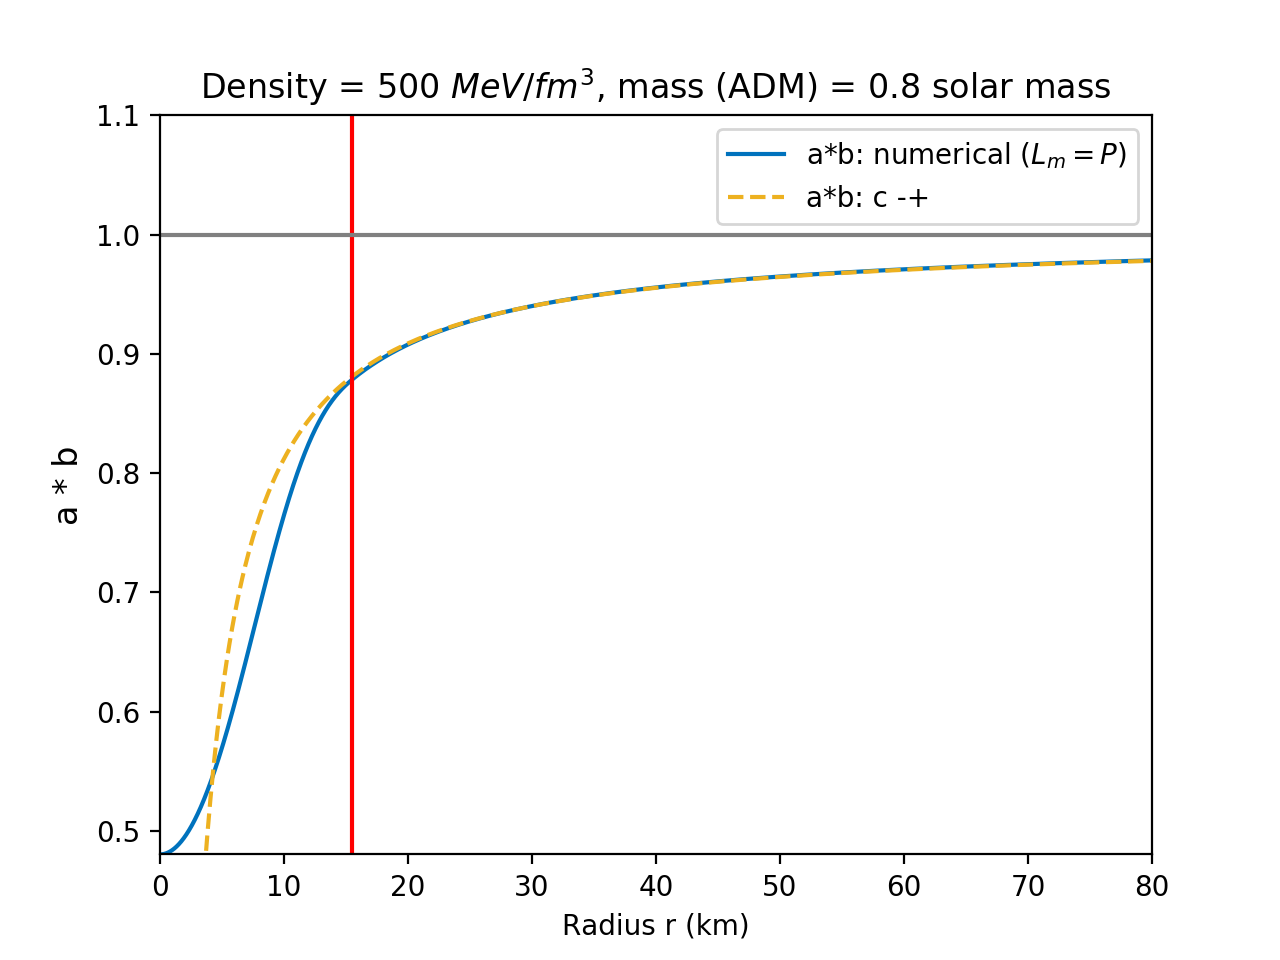
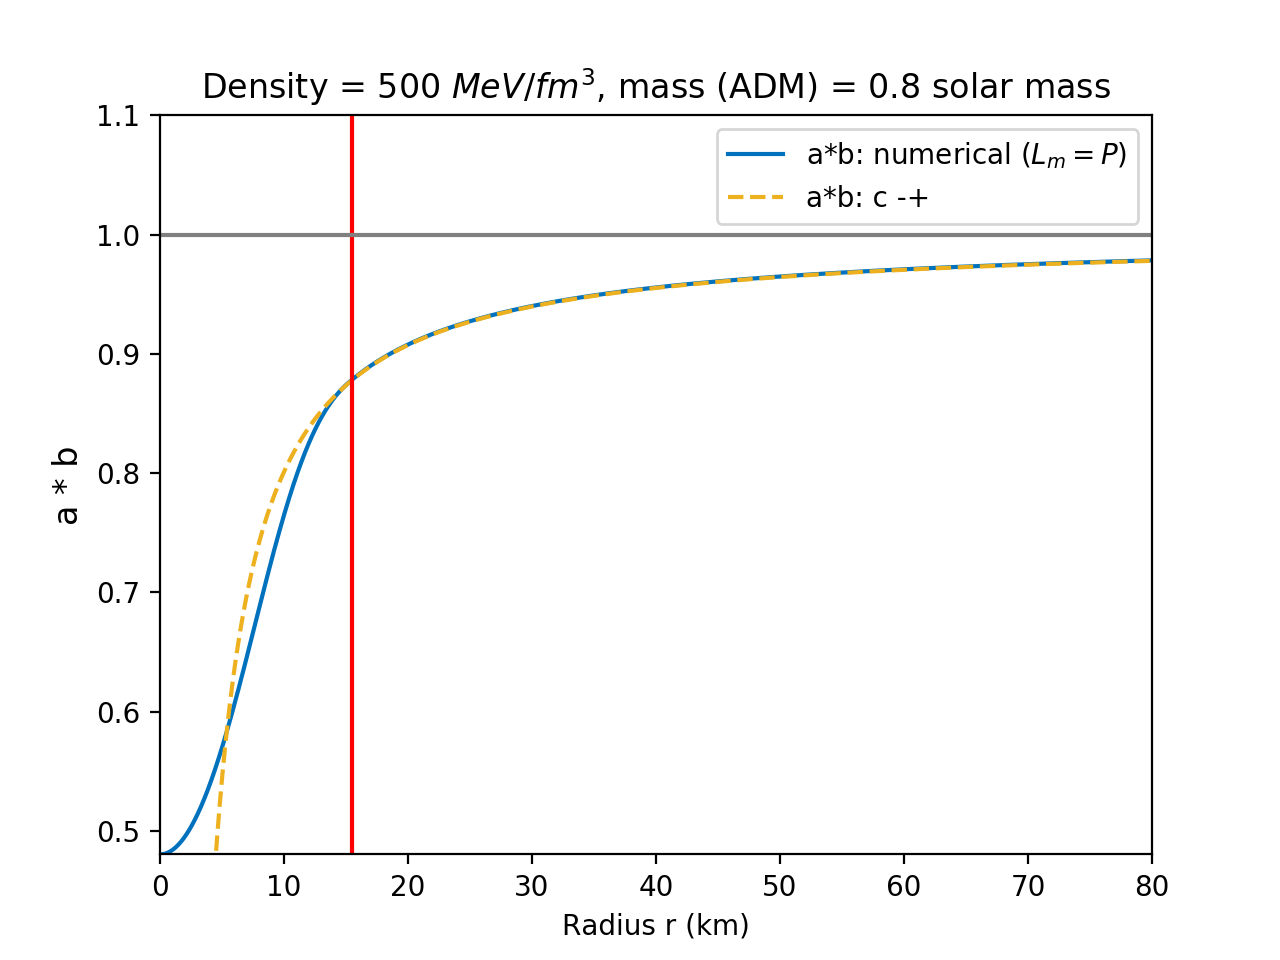
Correction of a, b, phi and rho equation and the computation of gamma and r_- and addition of a figure

diff --git a/Get_all_figures.py b/Get_all_figures.py
@@ -54,13 +54,25 @@ def run(opti,rho_cen):
     print('f_b at infinity ', f_b[-1])
     print('f_phi at infinity ', f_phi[-1])
     if option == 1:
-        gamma = 1/(5+4*f_a[-1]/f_phi[-1])**(1/2)
-        r_m = f_a[-1]*1000*(1+gamma**2)/(-1+5*gamma**2)
+        b_ = 1/(2*np.sqrt(3))
+        C = f_b[-1]/f_phi[-1]
+        a1 = 1
+        a2 = 4*b_*(C+1)
+        a3 = -1
+        a4 = a2*a2-4*a1*a3
+        gamma = (-a2-np.sqrt(a4))/(2*a1)
+        r_m = 1000*f_phi[-1]*(1+gamma**2)/(4*b_*gamma)
         comment = '$L_m = -\\rho$'
         descr = 'rho'
     elif option == 2:
-        gamma = 1/(-3-4*f_a[-1]/f_phi[-1])**(1/2)
-        r_m = -f_a[-1]*1000*(1+gamma**2)/(1+3*gamma**2)
+        b_ = -1/(2*np.sqrt(3))
+        C = f_b[-1]/f_phi[-1]
+        a1 = 1
+        a2 = 4*b_*(C+1)
+        a3 = -1
+        a4 = a2*a2-4*a1*a3
+        gamma = (-a2-np.sqrt(a4))/(2*a1)
+        r_m = 1000*f_phi[-1]*(1+gamma**2)/(4*b_*gamma)
         comment = '$L_m = P$'
         descr = 'P'
     else:
@@ -68,34 +80,23 @@ def run(opti,rho_cen):
     print('gamma', gamma)
     print('r_m',r_m )
     r_2 = np.linspace(r_m,r[-1],num=100000)
-    rho_m = ((r_2**2)*(1-(r_m/r_2))**((-2*gamma**2)/(1+gamma**2)))**(1/2)
-    a_m = (1-r_m/r_2)**((1-5*gamma**2)/(1+gamma**2))
-    phi_m= (1-r_m/r_2)**((4*gamma**2)/(1+gamma**2))
-    drho_dr_m = (1+r_m/r_2)**((-1*gamma**2)/(1+gamma**2))-(r_m/r_2)*((-1*gamma**2)/(1+gamma**2))*(1+r_m/r_2)**((-1*gamma**2)/(1+gamma**2)-1)
-    b_m = (1-r_m/r_2)**((-1-3*gamma**2)/(1+gamma**2))*(drho_dr_m)**(-2)
-    rho_p = ((r_2**2)*(1-(r_m/r_2))**((6*gamma**2)/(1+gamma**2)))**(1/2)
-    a_p = (1-r_m/r_2)**((1+3*gamma**2)/(1+gamma**2))
-    phi_p= (1-r_m/r_2)**((-4*gamma**2)/(1+gamma**2))
-    drho_dr_p = (1+r_m/r_2)**((3*gamma**2)/(1+gamma**2))-(r_m/r_2)*((3*gamma**2)/(1+gamma**2))*(1+r_m/r_2)**((3*gamma**2)/(1+gamma**2)-1)
-    b_p = (1-r_m/r_2)**((-1+5*gamma**2)/(1+gamma**2))*(drho_dr_p)**(-2)
+    exp_phi = -4*b_*gamma/(1+gamma**2)
+    exp_rho = (gamma**2)/(1+gamma**2)-exp_phi/2
+    exp_a = (1-gamma**2)/(1+gamma**2)-exp_phi
+    exp_b = -(1-gamma**2)/(1+gamma**2)-exp_phi
+    rho_u = r_2*(1-r_m/r_2)**exp_rho
+    a_u = (1-r_m/r_2)**exp_a
+    phi_u= (1-r_m/r_2)**exp_phi
+    drho_dr_u = (1-r_m/r_2)**exp_rho+exp_rho*(r_m/r_2)*(1-r_m/r_2)**(exp_rho-1)
+    b_u = ((1-r_m/r_2)**exp_b)*(drho_dr_u)**(-2)
     r_lim = 80000
     if option == 1:
-        rho_u = rho_m 
-        a_u = a_m
-        phi_u = phi_m
-        drho_dr_u = drho_dr_m
-        b_u = b_m
         couleur = (0.85,0.325,0.098)
         nom = 'c --'
     elif option == 2:
-        rho_u = rho_p 
-        a_u = a_p
-        phi_u = phi_p
-        drho_dr_u = drho_dr_p
-        b_u = b_p
         couleur = (0.929,0.694,0.125)
         nom = 'c -+'
-        
+
     return (r,a,b,phi,rho_u,a_u,phi_u,b_u,couleur,nom, comment,radiusStar,r_lim,descr,mass_ADM,rho_cen)
 
 
@@ -114,9 +115,9 @@ def make_plots(option,r,a,b,phi,rho_u,a_u,phi_u,b_u,couleur,nom, comment,radiusS
     plt.legend()
     plt.savefig(f'figures/a_{descr}_{rho_cen:.0f}_{mass_ADM:.1f}.png', dpi = 200)
     plt.show()
-    
+
     a_interpol = interp1d(rho_u, a_u, fill_value="extrapolate")
-    diff_a = (a_interpol(r)-a) / a 
+    diff_a = (a_interpol(r)-a) / a
 
 
     plt.plot(r*1e-3,diff_a*100,label=f'a (numerical({comment}) - {nom}) in %',color=(0.,0.447,0.741))
@@ -131,7 +132,7 @@ def make_plots(option,r,a,b,phi,rho_u,a_u,phi_u,b_u,couleur,nom, comment,radiusS
     plt.legend()
     plt.savefig(f'figures/diff_a_{descr}_{rho_cen:.0f}_{mass_ADM:.1f}.png', dpi = 200)
     plt.show()
-    
+
     plt.plot(r*1e-3,b,label=f'b: numerical ({comment})',color=(0.,0.447,0.741))
     plt.plot(rho_u*1e-3,b_u,linestyle='dashed',label = f'b: {nom}',color = couleur)
     plt.axvline(x=radiusStar*1e-3, color='r')
@@ -143,7 +144,7 @@ def make_plots(option,r,a,b,phi,rho_u,a_u,phi_u,b_u,couleur,nom, comment,radiusS
     plt.legend()
     plt.savefig(f'figures/b_{descr}_{rho_cen:.0f}_{mass_ADM:.1f}.png', dpi = 200)
     plt.show()
-    
+
     b_interpol = interp1d(rho_u, b_u, fill_value="extrapolate")
     diff_b = (b_interpol(r)-b) / b
 
@@ -161,7 +162,7 @@ def make_plots(option,r,a,b,phi,rho_u,a_u,phi_u,b_u,couleur,nom, comment,radiusS
     plt.legend()
     plt.savefig(f'figures/diff_b_{descr}_{rho_cen:.0f}_{mass_ADM:.1f}.png', dpi = 200)
     plt.show()
-    
+
     plt.plot(r*1e-3,phi,label=f'$\\Phi$: numerical({comment})',color=(0.,0.447,0.741))
     plt.plot(rho_u*1e-3,phi_u,linestyle='dashed',label= f'$\\Phi$: {nom}',color= couleur)
     plt.axvline(x=radiusStar*1e-3, color='r')
@@ -177,7 +178,7 @@ def make_plots(option,r,a,b,phi,rho_u,a_u,phi_u,b_u,couleur,nom, comment,radiusS
     plt.legend()
     plt.savefig(f'figures/phi_{descr}_{rho_cen:.0f}_{mass_ADM:.1f}.png', dpi = 200)
     plt.show()
-    
+
     phi_interpol = interp1d(rho_u, phi_u, fill_value="extrapolate")
     diff_phi = (phi_interpol(r)-phi) / phi
 
@@ -194,7 +195,7 @@ def make_plots(option,r,a,b,phi,rho_u,a_u,phi_u,b_u,couleur,nom, comment,radiusS
     plt.legend()
     plt.savefig(f'figures/diff_phi_{descr}_{rho_cen:.0f}_{mass_ADM:.1f}.png', dpi = 200)
     plt.show()
-    
+
     plt.plot(r*1e-3,a*b,label=f'a*b: numerical ({comment})',color=(0.,0.447,0.741))
     plt.plot(rho_u*1e-3,a_u*b_u,linestyle='dashed',label = f'a*b: {nom}',color = couleur)
     plt.axvline(x=radiusStar*1e-3, color='r')
@@ -226,18 +227,27 @@ def make_plots(option,r,a,b,phi,rho_u,a_u,phi_u,b_u,couleur,nom, comment,radiusS
     plt.savefig(f'figures/diff_ab_{descr}_{rho_cen:.0f}_{mass_ADM:.1f}.png', dpi = 200)
     plt.show()
 
-
+    plt.plot(r*1e-3,diff_a*100,label=f'$a$ (numerical({comment}) - {nom}) in %',color=(0.85,0.325,0.098))
+    plt.plot(r*1e-3,diff_b*100,label=f'$b$ (numerical({comment}) - {nom}) in %',color=(0.,0.447,0.741))
+    plt.plot(r*1e-3,diff_phi*100,label=f'$\\Phi$ (numerical({comment}) - {nom}) in %',color=(0.929,0.694,0.125))
+    plt.axvline(x=radiusStar*1e-3, color='r')
+    plt.axhline(y= 0, color = 'gray')
+    plt.xlim([0,r_lim*1e-3])
+    plt.ylim([-5,5])
+    plt.xlabel('Radius r (km)')
+    plt.ylabel('(numerical - analytical) %', fontsize=12)
+    plt.title(f'Density = {rho_cen} $MeV/fm^3$, mass (ADM) = {mass_ADM:.1f} solar mass', loc='center')
+    plt.legend()
+    plt.legend()
+    plt.savefig(f'figures/diff_a_b_phi_{descr}_{rho_cen:.0f}_{mass_ADM:.1f}.png', dpi = 200)
+    plt.show()
 # In[4]:
 
 
-for i in [1,2]:
-    for k in [100,500,1000,2000,4000,8000]:
+for i in [2]:
+    for k in [500]:
         r,a,b,phi,rho_u,a_u,phi_u,b_u,couleur,nom, comment,radiusStar,r_lim,descr,mass_ADM,rho_cen  = run(i,k)
         make_plots(i,r,a,b,phi,rho_u,a_u,phi_u,b_u,couleur,nom, comment,radiusStar,r_lim,descr,mass_ADM,k)
 
 
 # In[ ]:
-
-
-
-
